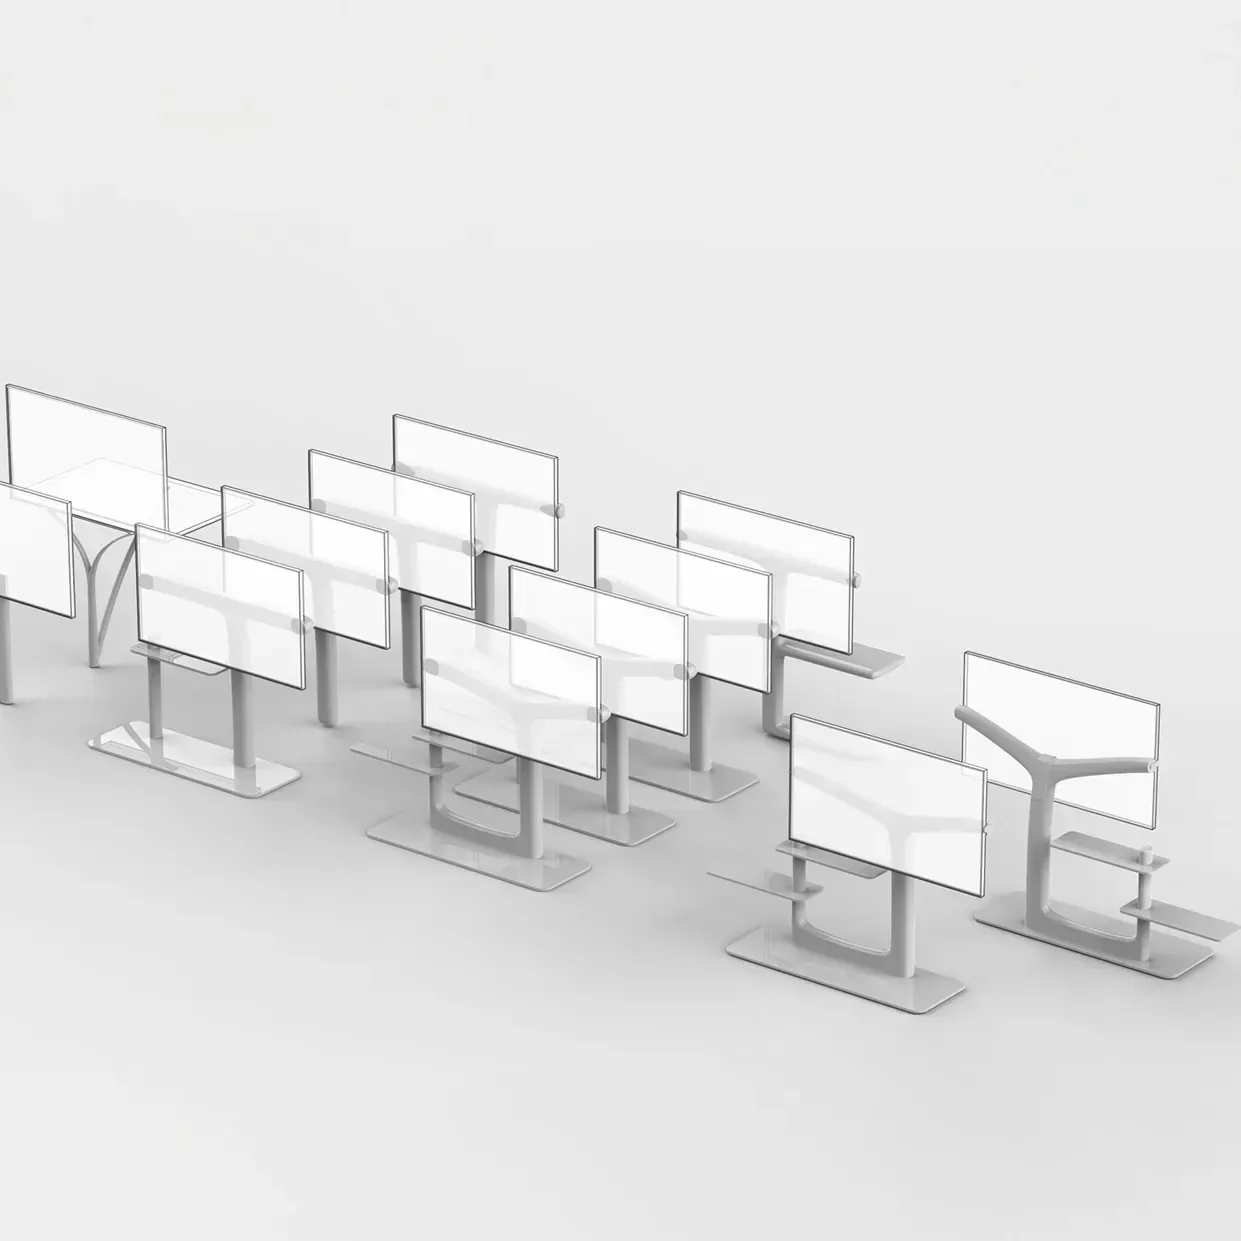
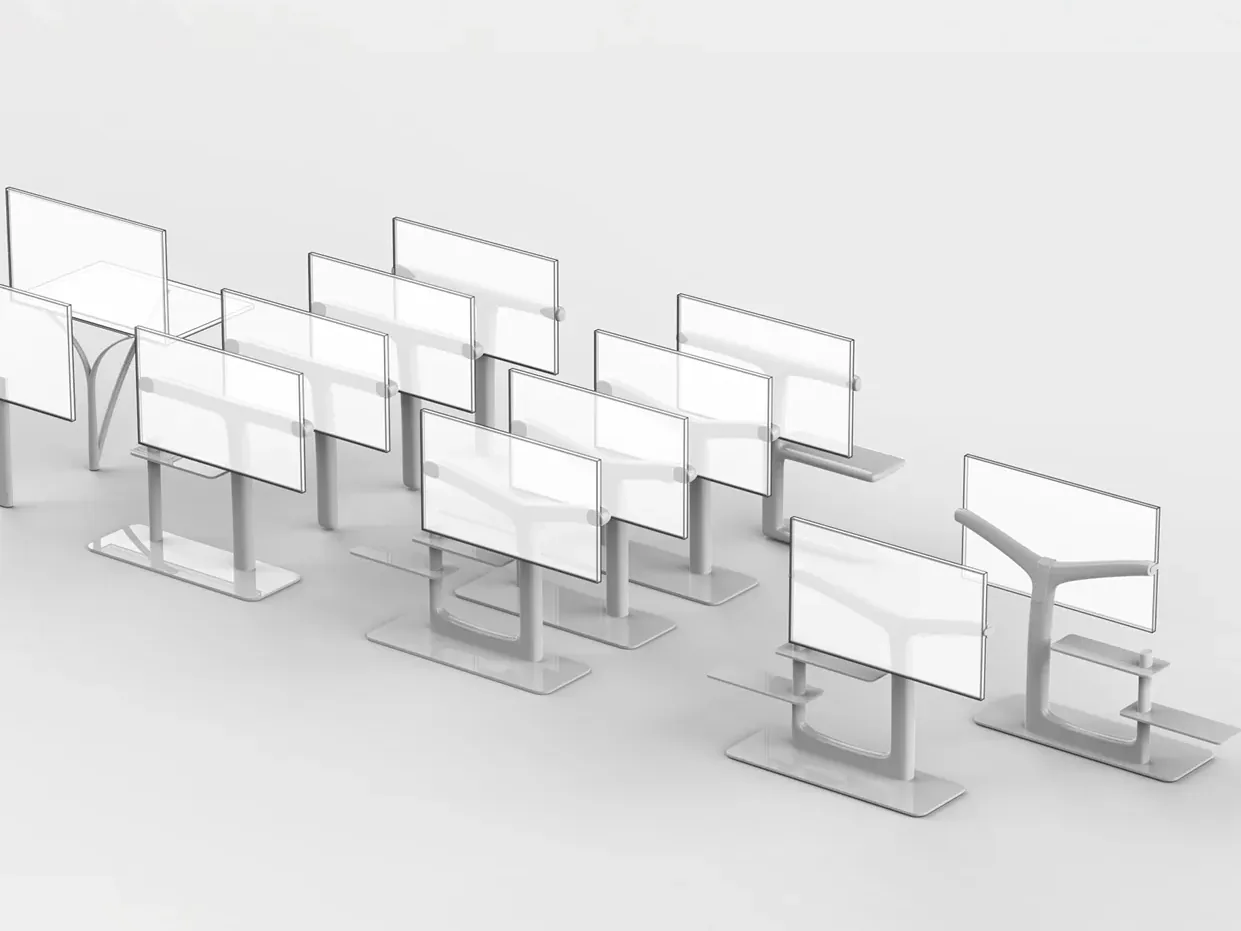
Fix Process counter and CAD slide crop ratio.
Show the last visible slide in the counter (3/11 on phone, 4/11 on desktop) and recrop the CAD models sheet to Playground 4x3 so the wide layout isn’t stranded in a square.

diff --git a/src/components/process-slider.tsx b/src/components/process-slider.tsx
@@ -26,11 +26,68 @@ function clamp(value: number, min: number, max: number) {
   return Math.min(max, Math.max(min, value));
 }
 
+/**
+ * SSR + first client paint always assume phone 3-up so the counter text
+ * matches (`3/11`). useEffect remeasures for tablet/desktop right after mount.
+ */
+function initialEndIndex(total: number) {
+  if (total <= 0) return 0;
+  return Math.min(3, total) - 1;
+}
+
 const ratioClassNames: Record<ProcessSliderRatio, string> = {
   "4x5": styles.ratio4x5,
   "4x3": styles.ratio4x3,
   "1x1": styles.ratio1x1,
 };
+
+type VisibleRange = { start: number; end: number };
+
+function trackPads(track: HTMLElement) {
+  const style = getComputedStyle(track);
+  return {
+    left: parseFloat(style.paddingInlineStart || style.paddingLeft) || 0,
+    right: parseFloat(style.paddingInlineEnd || style.paddingRight) || 0,
+  };
+}
+
+function measureVisibleRange(track: HTMLDivElement): VisibleRange | null {
+  const slides = track.querySelectorAll<HTMLElement>(`[data-slide]`);
+  if (!slides.length) return null;
+
+  const trackRect = track.getBoundingClientRect();
+  const pad = trackPads(track);
+  const viewLeft = trackRect.left + pad.left;
+  const viewRight = trackRect.right - pad.right;
+
+  let start = -1;
+  let end = -1;
+
+  slides.forEach((slide, i) => {
+    const rect = slide.getBoundingClientRect();
+    const overlap = Math.min(rect.right, viewRight) - Math.max(rect.left, viewLeft);
+    // Majority of the slide inside the content gutter.
+    if (overlap > rect.width * 0.5) {
+      if (start < 0) start = i;
+      end = i;
+    }
+  });
+
+  if (start < 0 || end < 0) {
+    let closest = 0;
+    let closestDistance = Number.POSITIVE_INFINITY;
+    slides.forEach((slide, i) => {
+      const distance = Math.abs(slide.getBoundingClientRect().left - viewLeft);
+      if (distance < closestDistance) {
+        closestDistance = distance;
+        closest = i;
+      }
+    });
+    return { start: closest, end: closest };
+  }
+
+  return { start, end };
+}
 
 export default function ProcessSlider({
   title = "Process",
@@ -38,65 +95,74 @@ export default function ProcessSlider({
   className,
 }: ProcessSliderProps) {
   const trackRef = React.useRef<HTMLDivElement>(null);
-  const [index, setIndex] = React.useState(0);
   const total = items.length;
-  const canPrev = index > 0;
-  const canNext = index < Math.max(total - 1, 0);
+  const [range, setRange] = React.useState<VisibleRange>(() => ({
+    start: 0,
+    end: initialEndIndex(total),
+  }));
 
-  const updateIndexFromScroll = React.useCallback(() => {
+  const canPrev = range.start > 0;
+  const canNext = range.end < Math.max(total - 1, 0);
+  const counterLabel = `${range.end + 1}/${total}`;
+
+  const updateFromScroll = React.useCallback(() => {
     const track = trackRef.current;
     if (!track || total === 0) return;
-
-    const slides = track.querySelectorAll<HTMLElement>(`[data-slide]`);
-    if (!slides.length) return;
-
-    const trackLeft = track.scrollLeft;
-    let closest = 0;
-    let closestDistance = Number.POSITIVE_INFINITY;
-
-    slides.forEach((slide, i) => {
-      const distance = Math.abs(slide.offsetLeft - trackLeft);
-      if (distance < closestDistance) {
-        closestDistance = distance;
-        closest = i;
-      }
-    });
-
-    setIndex(closest);
+    const next = measureVisibleRange(track);
+    if (!next) return;
+    setRange((prev) => (prev.start === next.start && prev.end === next.end ? prev : next));
   }, [total]);
 
   React.useEffect(() => {
     const track = trackRef.current;
     if (!track) return;
 
-    updateIndexFromScroll();
+    updateFromScroll();
 
-    const onScroll = () => updateIndexFromScroll();
+    const onScroll = () => updateFromScroll();
     track.addEventListener("scroll", onScroll, { passive: true });
 
-    const resizeObserver = new ResizeObserver(() => updateIndexFromScroll());
+    const resizeObserver = new ResizeObserver(() => updateFromScroll());
     resizeObserver.observe(track);
+    window.addEventListener("resize", updateFromScroll);
+
+    const raf = window.requestAnimationFrame(() => updateFromScroll());
+    const t = window.setTimeout(updateFromScroll, 100);
 
     return () => {
       track.removeEventListener("scroll", onScroll);
       resizeObserver.disconnect();
+      window.removeEventListener("resize", updateFromScroll);
+      window.cancelAnimationFrame(raf);
+      window.clearTimeout(t);
     };
-  }, [updateIndexFromScroll]);
+  }, [updateFromScroll]);
 
-  const scrollToIndex = React.useCallback((nextIndex: number) => {
-    const track = trackRef.current;
-    if (!track) return;
+  const scrollToIndex = React.useCallback(
+    (nextIndex: number) => {
+      const track = trackRef.current;
+      if (!track) return;
 
-    const slides = track.querySelectorAll<HTMLElement>(`[data-slide]`);
-    const target = slides[clamp(nextIndex, 0, slides.length - 1)];
-    if (!target) return;
+      const slides = track.querySelectorAll<HTMLElement>(`[data-slide]`);
+      const target = slides[clamp(nextIndex, 0, slides.length - 1)];
+      if (!target) return;
 
-    track.scrollTo({ left: target.offsetLeft, behavior: "smooth" });
-    setIndex(clamp(nextIndex, 0, slides.length - 1));
-  }, []);
+      const pad = trackPads(track);
+      const trackRect = track.getBoundingClientRect();
+      const delta = target.getBoundingClientRect().left - (trackRect.left + pad.left);
+      track.scrollTo({ left: track.scrollLeft + delta, behavior: "smooth" });
 
-  const goPrev = () => scrollToIndex(index - 1);
-  const goNext = () => scrollToIndex(index + 1);
+      // Optimistic update; scroll handler confirms once motion settles.
+      const columns = Math.max(1, range.end - range.start + 1);
+      const start = clamp(nextIndex, 0, Math.max(total - 1, 0));
+      const end = clamp(start + columns - 1, 0, Math.max(total - 1, 0));
+      setRange({ start, end });
+    },
+    [range.end, range.start, total],
+  );
+
+  const goPrev = () => scrollToIndex(range.start - 1);
+  const goNext = () => scrollToIndex(range.start + 1);
 
   if (total === 0) return null;
 
@@ -105,7 +171,7 @@ export default function ProcessSlider({
       <div className={styles.header}>
         <h2 className={styles.title}>{title}</h2>
         <p className={styles.counter} aria-live="polite">
-          {index + 1}/{total}
+          {counterLabel}
         </p>
       </div>
 

diff --git a/src/views/halv.tsx b/src/views/halv.tsx
@@ -54,7 +54,7 @@ const MotionDivWithOptimizedAppearEffect = withOptimizedAppearEffect(motion.div)
 const halvProcessItems = [
   { id: "halv-process-1", alt: "Halv process — fabrication", src: "/halv/process/halv-process-01.webp", ratio: "4x3" as const, width: 1600, height: 1200 },
   { id: "halv-process-2", alt: "Halv process — detailing", src: "/halv/process/halv-process-02.webp", ratio: "1x1" as const, width: 1420, height: 1420 },
-  { id: "halv-process-3", alt: "Halv process — CAD form studies", src: "/halv/process/halv-process-03.webp", ratio: "1x1" as const, width: 1241, height: 1241 },
+  { id: "halv-process-3", alt: "Halv process — CAD form studies", src: "/halv/process/halv-process-03.webp", ratio: "4x3" as const, width: 1241, height: 931 },
   { id: "halv-process-4", alt: "Halv process — fabric TV study", src: "/halv/process/halv-process-04.webp", ratio: "4x3" as const, width: 1200, height: 900 },
   { id: "halv-process-5", alt: "Halv process — assembly", src: "/halv/process/halv-process-05.webp", ratio: "1x1" as const, width: 1540, height: 1540 },
   { id: "halv-process-6", alt: "Halv process — workshop", src: "/halv/process/halv-process-06.webp", ratio: "4x3" as const, width: 1600, height: 1200 },

diff --git a/scripts/optimize-halv-process.js b/scripts/optimize-halv-process.js
@@ -32,7 +32,8 @@ const RATIOS = {
 const files = [
   { from: "106_1954.JPG", webp: "halv-process-01.webp", alt: "Halv process — fabrication" },
   { from: "DSC_0212.jpg", webp: "halv-process-02.webp", alt: "Halv process — detailing", position: "left" },
-  { from: "HALV PROCESS.57 2.jpg", webp: "halv-process-03.webp", alt: "Halv process — CAD form studies", zoom: 0.62 },
+  // Wide CAD sheet: lock 4x3 so empty top/bottom falls away (1x1 left too much void).
+  { from: "HALV PROCESS.57 2.jpg", webp: "halv-process-03.webp", alt: "Halv process — CAD form studies", zoom: 0.62, ratio: "4x3", position: "centre" },
   { from: "Fabric TV 1.41.JPG", webp: "halv-process-04.webp", alt: "Halv process — fabric TV study", position: "attention" },
   { from: "IMG_2233 2.jpg", webp: "halv-process-05.webp", alt: "Halv process — assembly" },
   { from: "IMG_2735.jpg", webp: "halv-process-06.webp", alt: "Halv process — workshop" },
